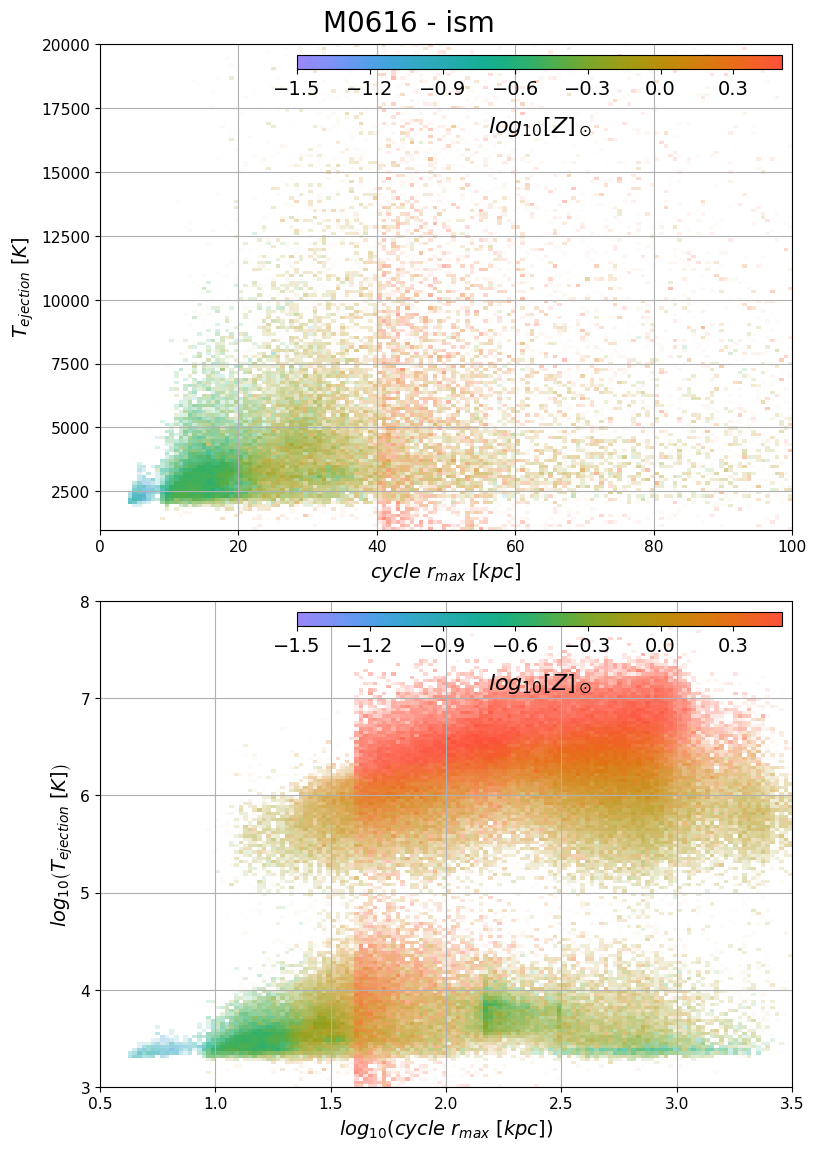
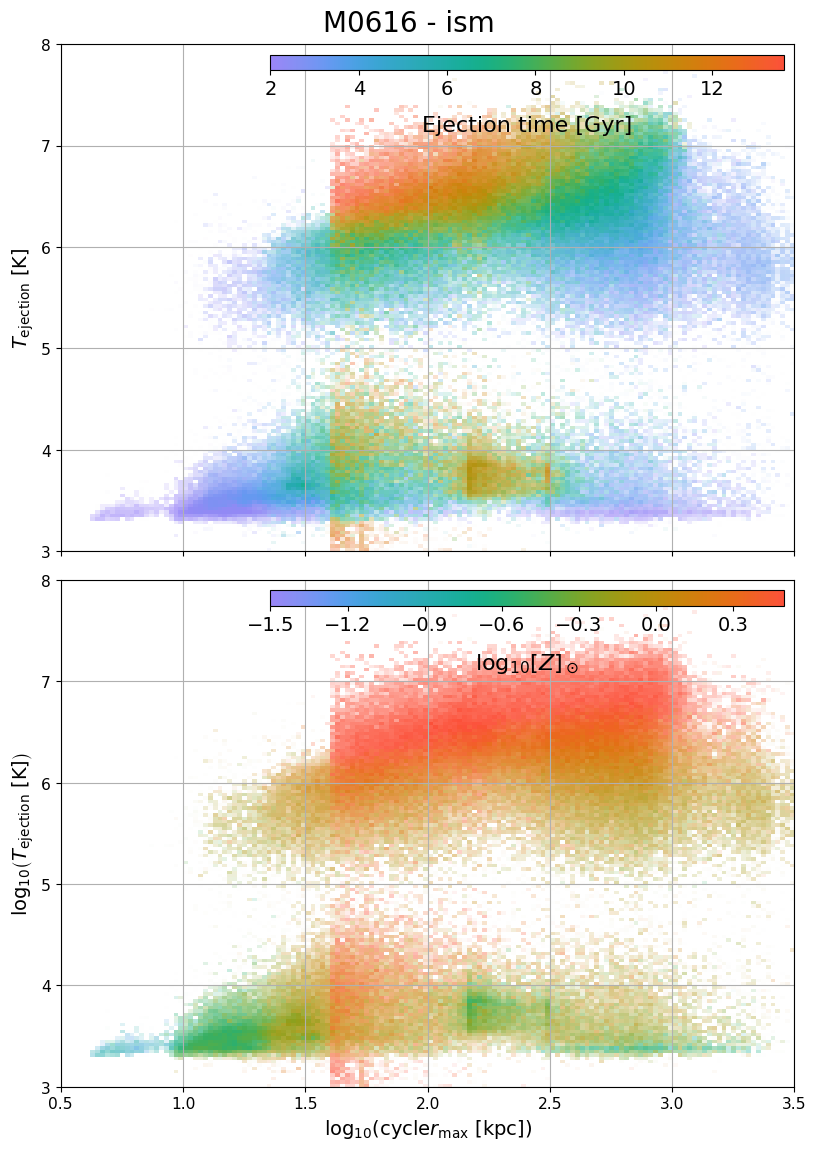
T_ej_r_max upper plot colors set to ejection time

diff --git a/1/T_ej_r_max.py b/1/T_ej_r_max.py
@@ -21,19 +21,20 @@ def plot(args):
     s_masked = s.gas[mask]
     
     f, ax = plt.subplots(2, figsize=utils.figsize)
-    _, _, _, cbar = pg.plotting.scatter_map(s_masked['cycle_r_max'].flatten(),
-        s_masked['T_at_ejection'].flatten(), s=s_masked,
+
+    _, _, _, cbar = pg.plotting.scatter_map(np.log10(s_masked['cycle_r_max'].flatten()),
+        np.log10(s_masked['T_at_ejection'].flatten()), s=s_masked,
+        extent=[[.5, 3.5], [3, 8]], logscale=True,
         qty=s_masked['mass_at_ejection'].flatten(),
-        colors=s_masked['metals_at_ejection'].flatten()/s_masked['mass_at_ejection'].flatten()/pg.solar.Z(),
+        colors='ejection_time.flatten()',
         colors_av=s_masked['mass_at_ejection'].flatten(),
-        extent=[[0,100], [1e3, 2e4]], logscale=True,
-        clogscale=True, clim=[10**-1.5, 10**.5],
+        clogscale=False, clim=[2, s.cosmic_time()],
         zero_is_white=True, ax=ax[0])
     cbar_ax = cbar.ax
-    cbar_ax.set_xlabel(r'$log_{10} [ Z ]_\odot  $', fontsize=16)
+    cbar_ax.set_xlabel('Ejection time [Gyr]', fontsize=16)
     plt.setp(cbar_ax.get_xticklabels(), fontsize=14)    
-    ax[0].set_xlabel(r'$cycle\ r_{max}\ [kpc]$')
-    ax[0].set_ylabel(r'$T_{ejection}\ [K]$')
+    ax[0].set_ylabel(r'$T_\mathrm{ejection}\ \mathrm{[K]}$')
+    ax[0].tick_params(labelbottom='off')
     
     _, _, _, cbar = pg.plotting.scatter_map(np.log10(s_masked['cycle_r_max'].flatten()),
         np.log10(s_masked['T_at_ejection'].flatten()), s=s_masked,
@@ -44,10 +45,10 @@ def plot(args):
         clogscale=True, clim=[10**-1.5, 10**.5],
         zero_is_white=True, ax=ax[1])
     cbar_ax = cbar.ax
-    cbar_ax.set_xlabel(r'$log_{10} [ Z ]_\odot $', fontsize=16)
+    cbar_ax.set_xlabel(r'$\log_{10} [ Z ]_\odot $', fontsize=16)
     plt.setp(cbar_ax.get_xticklabels(), fontsize=14)    
-    ax[1].set_xlabel(r'$log_{10}\left(cycle\ r_{max}\ [kpc]\right)$')
-    ax[1].set_ylabel(r'$log_{10}\left(T_{ejection}\ [K]\right)$')
+    ax[1].set_xlabel(r'$\log_{10}\left(\mathrm{cycle }r_\mathrm{max}\ \mathrm{[kpc]}\right)$')
+    ax[1].set_ylabel(r'$\log_{10}\left(T_\mathrm{ejection}\ \mathrm{[K]}\right)$')
     
     f.tight_layout()
     plt.subplots_adjust(top=0.95)
@@ -55,6 +56,6 @@ def plot(args):
     
     plt.savefig(filename.split("/")[-1][:-3] + '_' + halo + '_' + definition + ".png", bbox_inches='tight')
 
-p = Pool(8)
+p = Pool(7)
 p.map(plot, utils.combinations)
 
